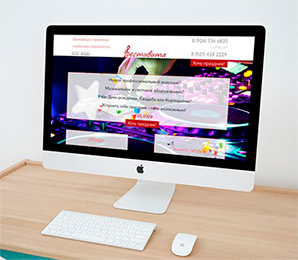
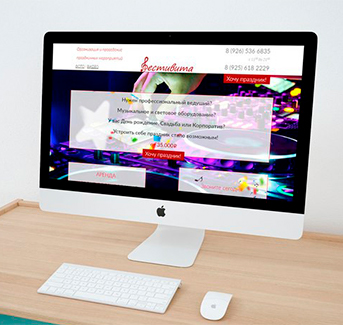
add final prodject myWebSite

diff --git a/Courses/Lesson 13/HW Psd/index.html b/Courses/Lesson 13/HW Psd/index.html
@@ -190,7 +190,12 @@
             <h2 class="ourProjects__text-small">последние проекты</h2>
         </div>
         <div class="projects">
-
+            <p class="big-img img-1"><a href="#"></a></p>
+            <p class="big-img img-2"><a href="#"></a></p>
+            <p class="small-img img-3"><a href="#"></a></p>
+            <p class="small-img img-4"><a href="#"></a></p>
+            <p class="small-img img-5"><a href="#"></a></p>
+            <p class="small-img img-6"><a href="#"></a></p>
         </div>
         <div class="more">
             <a href="#">
@@ -235,31 +240,33 @@
                 </div>
                 <div class="tradein__column">
                     <h2 class="tradein__heading"><img src="img/magnify.png">процесс работы</h2>
-                    <h3 class="tradein__text">Мы делаем предварительную оценку, 
-                        параллельно, с Вами согласовываем 
-                        веб интерфейс и систему управления, 
-                        и если Вас все устраивает, заключаем 
-                        договор. При этом Вам не придется 
-                        останавливать работу в интернете, так 
-                        как передача Вашего сайта осуществляется 
-                        только после разработки нового. Тем самым 
+                    <h3 class="tradein__text">Мы делаем предварительную оценку,
+                        параллельно, с Вами согласовываем
+                        веб интерфейс и систему управления,
+                        и если Вас все устраивает, заключаем
+                        договор. При этом Вам не придется
+                        останавливать работу в интернете, так
+                        как передача Вашего сайта осуществляется
+                        только после разработки нового. Тем самым
                         Вы экономите не только время, но и деньги.</h3>
                 </div>
                 <div class="tradein__column">
                     <h2 class="tradein__heading"><img src="img/diamond.png">условия</h2>
-                    <h3 class="tradein__text">Вам нужно предоставить максимум информации 
-                        о предоставляемом интернет-проекте, которое 
-                        Вы хотите обновить.Данная информация 
-                        поможет нам в кратчайшие сроки рассмотреть 
-                        Ваш запрос и дать положительный ответ. Для 
-                        этого, убедительно просим Вас, присылать 
-                        информацию на Вашем фирменном бланке с 
-                        печатью, а так же фотографии домена и 
+                    <h3 class="tradein__text">Вам нужно предоставить максимум информации
+                        о предоставляемом интернет-проекте, которое
+                        Вы хотите обновить.Данная информация
+                        поможет нам в кратчайшие сроки рассмотреть
+                        Ваш запрос и дать положительный ответ. Для
+                        этого, убедительно просим Вас, присылать
+                        информацию на Вашем фирменном бланке с
+                        печатью, а так же фотографии домена и
                         хостинга.</h3>
                 </div>
-                <a href="#"><div class="estimate">
-                    оценить мой сайт
-                </div></a>
+                <a href="#">
+                    <div class="estimate">
+                        оценить мой сайт
+                    </div>
+                </a>
             </div>
         </div>
         <div class="search__shadow careful">be careful</div>
@@ -293,10 +300,22 @@
                     </div>
                 </div>
                 <div class="search__column">
+                    <form action="">
+                        <p class="field"><input class="text" type="text" placeholder="Ваше имя" name="name"></p>
+                        <p class="field"><input class="text" type="text" placeholder="Номер телефона" name="surname">
+                        </p>
+                        <p class="field">
+                            <textarea class="text2" placeholder="Ваше сообщение*" name="messenge" cols="10"
+                                rows="10"></textarea>
 
+                        </p>
+                        <p><input class="input__call" type="submit" value="ОТПРАВИТЬ" name="call"></p>
+                        <p class="fillin">Заполните и наши специалисты вам перезвонят</p>
+                    </form>
                 </div>
             </div>
         </div>
+
         <footer></footer>
     </div>
 </body>

diff --git a/Courses/Lesson 13/HW Psd/style.css b/Courses/Lesson 13/HW Psd/style.css
@@ -5,7 +5,7 @@
 
 .content {
     max-width: 1500px;
-    height: 6364px;
+    height: 6314px;
     display: flex;
     flex-direction: column;
     font-family: 'Paragon', arial;
@@ -411,7 +411,58 @@ nav a:hover {
 
 .projects {
     max-width: inherit;
-    height: 600px;
+    height: 550px;
+    display: flex;
+    flex-direction: row;
+    flex-wrap: wrap;
+}
+
+.big-img {
+    width: 50%;
+}
+
+.small-img {
+    width: 25%;
+}
+
+.big-img.img-1 {
+    background-image: url(img/projects1.jpg);
+    background-repeat: no-repeat;
+}
+
+.big-img.img-2 {
+    background-image: url(img/projects2.jpg);
+    background-repeat: no-repeat;
+}
+
+.small-img.img-3 {
+    background-image: url(img/projects3.jpg);
+    background-repeat: no-repeat;
+}
+
+.small-img.img-4 {
+    background-image: url(img/projects4.jpg);
+    background-repeat: no-repeat;
+}
+
+.small-img.img-5 {
+    background-image: url(img/projects5.jpg);
+    background-repeat: no-repeat;
+}
+
+.small-img.img-6 {
+    background-image: url(img/projects6.jpg);
+    background-repeat: no-repeat;
+}
+
+.picture {
+    height: 340px;
+    width: 100%;
+}
+
+.picture-small {
+    height: 262px;
+    width: 100%;
 }
 
 .more {
@@ -494,7 +545,7 @@ nav a:hover {
 
 .tradein__heading {
     text-transform: uppercase;
-    font-size: 25px;
+    font-size: 20px;
     display: flex;
     align-items: center;
     line-height: 80px;
@@ -520,6 +571,7 @@ nav a:hover {
     justify-content: center;
     right: -140px;
     position: absolute;
+    top: -40px;
 }
 
 .tradein .filter a {
@@ -527,7 +579,8 @@ nav a:hover {
     top: 5150px;
     position: absolute;
 }
-.tradein__heading img{
+
+.tradein__heading img {
     margin-right: 15px;
     width: 45px;
 }
@@ -564,6 +617,39 @@ nav a:hover {
 .contactus__text {
     line-height: 30px;
 }
+
+
+.search__column p {
+    padding-top: 1px;
+    padding-left: 1px;
+}
+
+input.text {
+    width: 124%;
+    height: 1.5rem;
+    padding:.75em;
+    border: 0;
+}
+textarea.text2{
+    width: 124%;
+    height: 6rem;
+    font-family: sans-serif;
+    border: 0;
+    padding:.75em;
+}
+.input__call{
+    height: 40px;
+    width: 130px;
+    background-color: #f6ae48;
+    color: white;
+    font-size: 15px;
+    font-weight: bold;
+    border-radius: 10px;
+    /* outline: 0 !important; */
+    border: 0;
+}
+
+
 
 footer {
     height: 90px;
